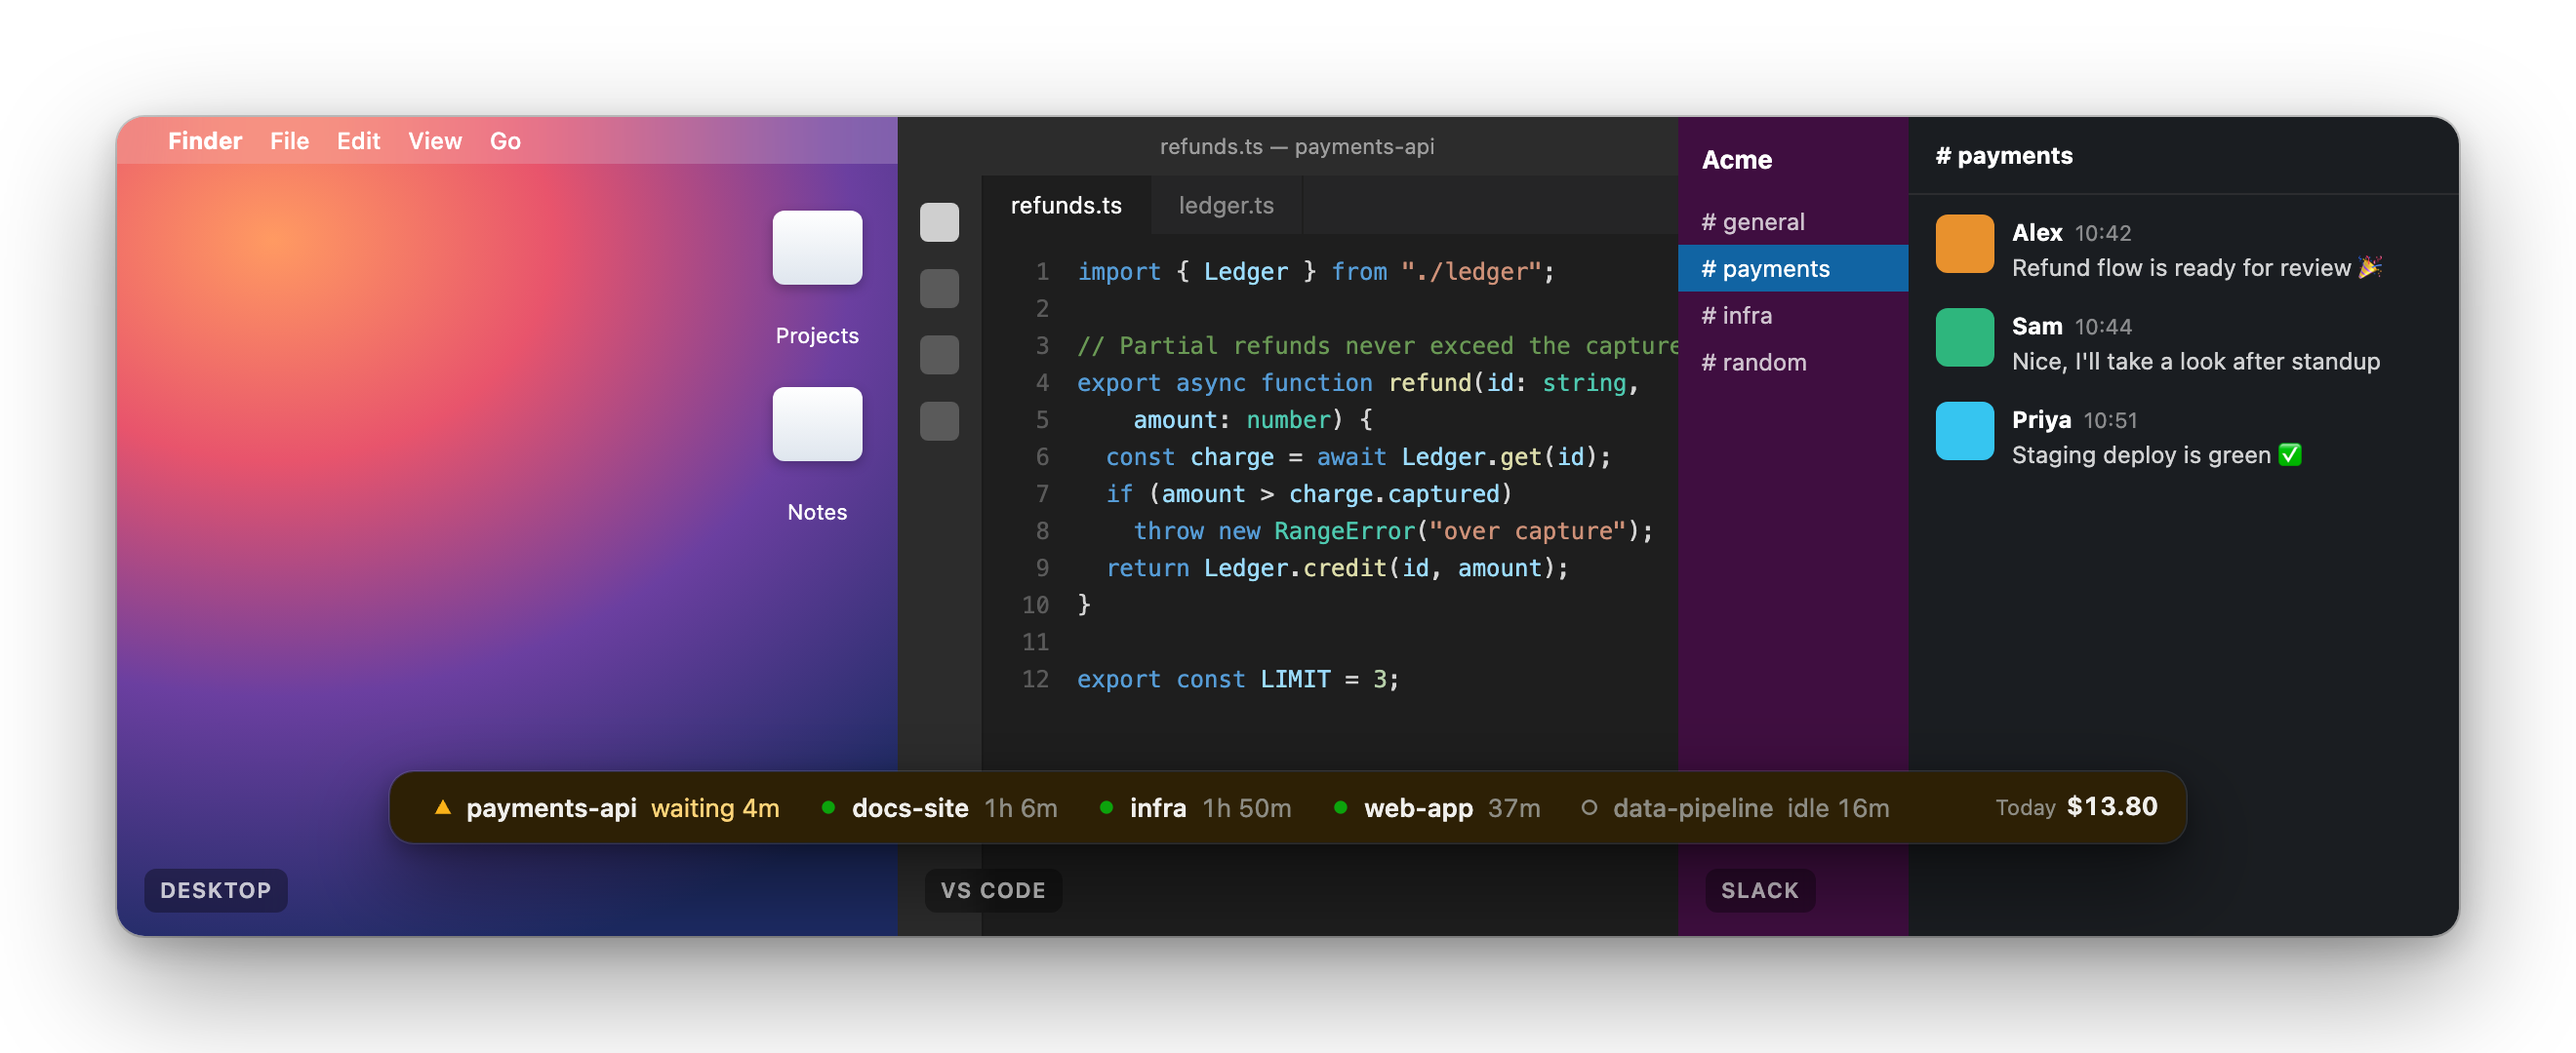
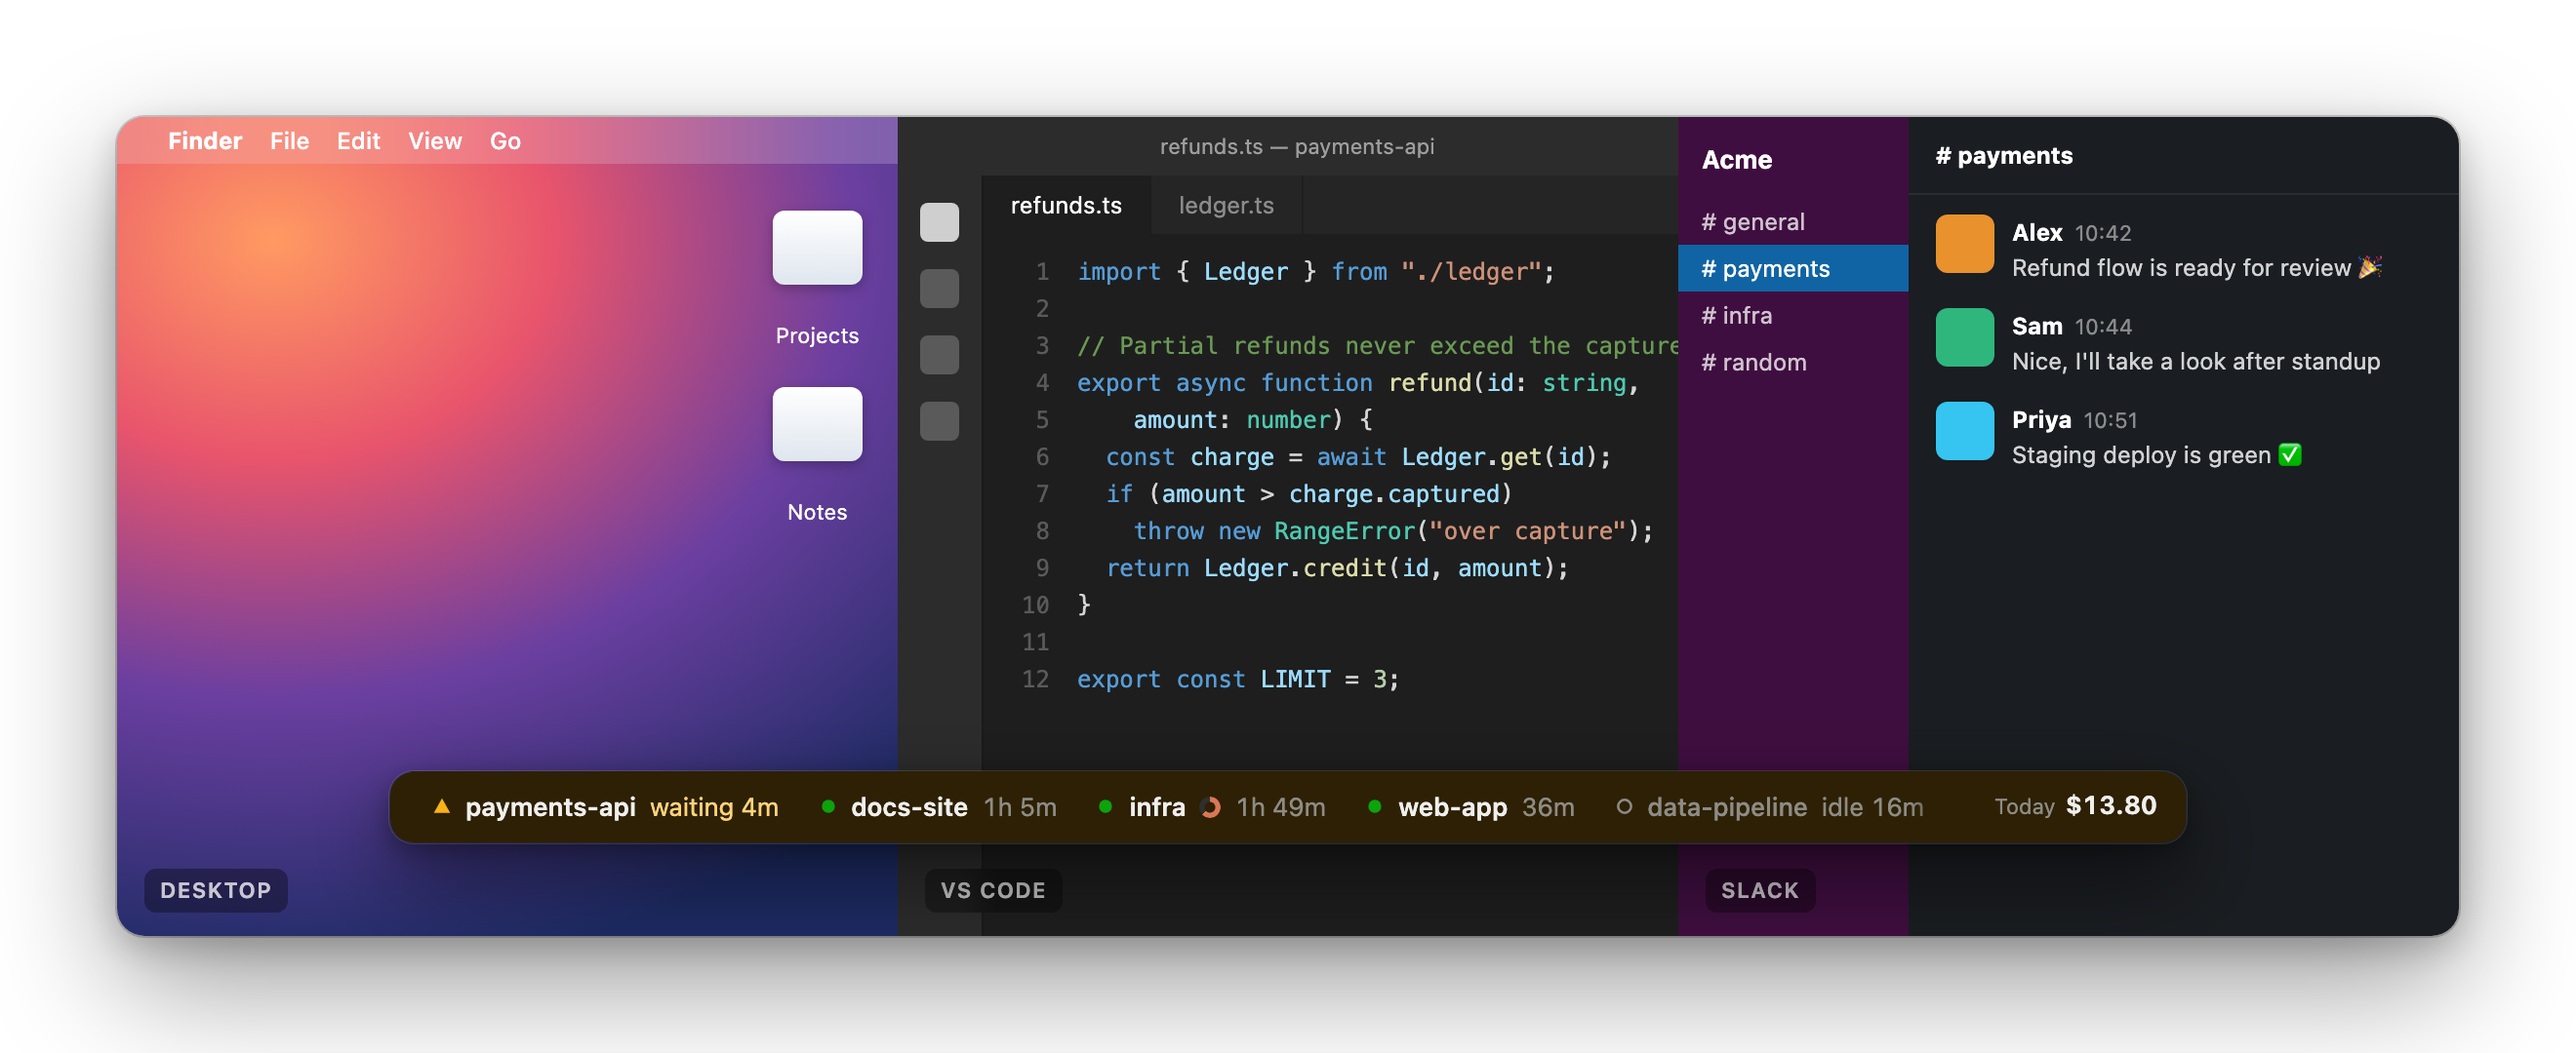
feat: show workflow progress as a ring in each session row (#13)
* feat: show workflow progress as a ring in each session row

report.sh reads the session's newest Claude Code workflow journal (next to the
transcript) and sends name, current phase and agents finished/started. The Hub
stores it per session with the same ordering rule as status; the dashboard and
widget bar draw an 11px progress ring. Plugin bumped to 0.6.0.

README screenshots re-rendered by `make images` (server/scripts/readme-images.mjs).

* fix(plugin): count workflow agents with jq, not line-prefix greps

Counting with select(.type == "started") doesn't depend on key order in the
journal. A resumed run's cached results have no "started" line, so started is
clamped to at least done. Drops the empty-string-to-null mapping the server
already does. readme-images.mjs resolves its root with fileURLToPath.

---------

diff --git a/server/src/hub.ts b/server/src/hub.ts
@@ -1,7 +1,7 @@
 import { DurableObject } from "cloudflare:workers";
 import * as authstore from "./authstore";
 import { digest, type Attempt, type ChallengePurpose, type DeviceKind, type DeviceRequest, type Devices, type FailureKey, type PasskeyRow, type Session, type SessionKind } from "./authstore";
-import type { HookEvent } from "./event";
+import type { HookEvent, Workflow } from "./event";
 import { MAX_USAGE, USAGE_COLUMNS, type UsageColumn, type UsageUpdate } from "./otlp";
 
 export type Status = "working" | "needs_you" | "idle" | "stale" | "ended";
@@ -32,7 +32,11 @@ export type SessionRow = {
   last_seen: number;
   last_event: number;
   ended_at: number | null;
+  workflow: Workflow | null;
 } & Record<UsageColumn, number>;
+
+/** As stored: workflow is JSON text. */
+export type StoredSessionRow = Omit<SessionRow, "workflow"> & { workflow: string | null };
 
 export interface Snapshot {
   sessions: SessionRow[];
@@ -63,7 +67,8 @@ const SCHEMA = `CREATE TABLE IF NOT EXISTS sessions (
   tokens_in          INTEGER NOT NULL DEFAULT 0,
   tokens_out         INTEGER NOT NULL DEFAULT 0,
   tokens_cache_read  INTEGER NOT NULL DEFAULT 0,
-  tokens_cache_write INTEGER NOT NULL DEFAULT 0
+  tokens_cache_write INTEGER NOT NULL DEFAULT 0,
+  workflow           TEXT
 )`;
 
 // Usage accrued per UTC day, so history counts spend on the day it happened, not the day a session started.
@@ -90,8 +95,8 @@ const BACKFILL_USAGE = `INSERT INTO usage_daily
 // Hooks post in the background, so events can arrive out of order:
 // only an event at least as new as last_event may change status/ended_at.
 const UPSERT_EVENT = `
-INSERT INTO sessions (id, machine, project, cwd, branch, status, started_at, last_seen, last_event, ended_at)
-VALUES (?, ?, ?, ?, ?, ?, ?, ?, ?, ?)
+INSERT INTO sessions (id, machine, project, cwd, branch, status, started_at, last_seen, last_event, ended_at, workflow)
+VALUES (?, ?, ?, ?, ?, ?, ?, ?, ?, ?, ?)
 ON CONFLICT(id) DO UPDATE SET
   machine    = COALESCE(excluded.machine, sessions.machine),
   project    = COALESCE(excluded.project, sessions.project),
@@ -100,6 +105,7 @@ ON CONFLICT(id) DO UPDATE SET
   started_at = MIN(COALESCE(sessions.started_at, excluded.started_at), excluded.started_at),
   status     = CASE WHEN excluded.last_event >= sessions.last_event THEN excluded.status   ELSE sessions.status   END,
   ended_at   = CASE WHEN excluded.last_event >= sessions.last_event THEN excluded.ended_at ELSE sessions.ended_at END,
+  workflow   = CASE WHEN excluded.last_event >= sessions.last_event THEN excluded.workflow ELSE sessions.workflow END,
   last_event = MAX(sessions.last_event, excluded.last_event),
   last_seen  = MAX(sessions.last_seen, excluded.last_seen)`;
 
@@ -115,6 +121,11 @@ export class Hub extends DurableObject<Env> {
     this.sql.exec(SCHEMA);
     this.sql.exec(authstore.AUTH_SCHEMA);
     this.sql.exec(BATCH_SCHEMA);
+    try {
+      this.sql.exec(`ALTER TABLE sessions ADD COLUMN workflow TEXT`);
+    } catch {
+      // Column already exists.
+    }
     authstore.migrateAuth(this.sql);
     // One transaction, so the table never exists without its backfill.
     if (!this.sql.exec(`SELECT 1 FROM sqlite_master WHERE name = 'usage_daily'`).toArray().length) {
@@ -236,7 +247,8 @@ export class Hub extends DurableObject<Env> {
     const project = e.cwd?.split("/").findLast(Boolean) ?? null;
     const endedAt = status === "ended" ? e.ts : null;
     // last_seen is arrival time, since the stale sweep compares it with the server clock.
-    this.sql.exec(UPSERT_EVENT, e.session_id, e.machine, project, e.cwd, e.branch, status, e.ts, Date.now(), e.ts, endedAt);
+    this.sql.exec(UPSERT_EVENT, e.session_id, e.machine, project, e.cwd, e.branch, status, e.ts, Date.now(), e.ts, endedAt,
+      e.workflow && JSON.stringify(e.workflow));
     this.broadcast();
     if (status !== "ended") await this.ensureAlarm();
   }
@@ -277,8 +289,9 @@ export class Hub extends DurableObject<Env> {
 
   snapshot(): Snapshot {
     const sessions = this.sql
-      .exec<SessionRow>(`SELECT * FROM sessions WHERE status IN ${LIVE_SQL}`)
-      .toArray();
+      .exec<StoredSessionRow>(`SELECT * FROM sessions WHERE status IN ${LIVE_SQL}`)
+      .toArray()
+      .map((r) => ({ ...r, workflow: r.workflow ? (JSON.parse(r.workflow) as Workflow) : null }));
     return { sessions };
   }
 

diff --git a/server/public/index.html b/server/public/index.html
@@ -48,6 +48,11 @@
   .row .cost { font-weight: 600; }
   .row .when { font-size: 11px; color: var(--ink-3); }
   .row .meta, #more { display: none; }
+  .row .sub:has(.wf) { display: flex; align-items: center; gap: 5px; }
+  .row .wf { flex: none; width: 11px; height: 11px; border-radius: 50%; background: conic-gradient(var(--accent) calc(var(--p) * 1%), var(--line) 0);
+    mask: radial-gradient(circle, transparent 2.5px, #000 3px); }
+  /* Bar mode hides .sub, so a second ring shows the same progress in the pill. */
+  .row > div > .wf { display: none; }
   .row.needs_you .when { color: var(--warn-ink); font-weight: 600; }
   .empty { color: var(--ink-3); padding: 18px 14px; margin: 0; }
   .foot { border-top: 1px solid var(--line); padding: 10px 14px 12px; display: grid; grid-template-columns: auto 1fr; gap: 14px; align-items: end; }
@@ -91,6 +96,7 @@
     #live .row > div:not(.right) { display: flex; align-items: baseline; gap: 7px; }
     #live .row svg.icon { width: 10px; height: 10px; }
     #live .row.idle .title { color: var(--ink-3); font-weight: 500; }
+    #live .row > div > .wf { display: block; align-self: center; }
     .row .meta { display: inline; color: var(--ink-3); font-variant-numeric: tabular-nums; }
     .row.needs_you .meta { color: var(--warn-ink); }
     #more { display: block; flex: none; color: var(--ink-3); font-weight: 600; }
@@ -99,7 +105,7 @@
     html.cession-hover .foot { opacity: 0; }
     .today { display: flex; align-items: baseline; gap: 5px; }
     .today .value { font-size: 13px; }
-    .head, .row .title span, .row .sub, .row .right, #live .empty, #live h2, .delta, svg.spark, details { display: none; }
+    .head, .row .title span, .row .sub, .row .sub:has(.wf), .row .right, #live .empty, #live h2, .delta, svg.spark, details { display: none; }
   }
   .tip { position: fixed; pointer-events: none; opacity: 0; background: #0b0b0b; color: #fff; border-radius: 6px; padding: 5px 8px; font-size: 11px; transition: opacity .1s; }
 </style>
@@ -176,10 +182,20 @@ function rowHtml(r, s) {
         ${ICON[s]}
         <div><div class="title">${esc(r.project ?? "—")}${branch}</div>
           <div class="sub">${esc(r.machine ?? "unknown machine")}${up}</div>
+          ${workflowHtml(r.workflow)}
           <span class="meta">${barMeta(r)}</span></div>
         <div class="right"><div class="cost">${usd(r.cost_usd)}</div>
           <div class="when">${when}</div></div>
       </div>`;
+}
+
+// Agents are spawned as a run goes, so the bar is finished out of started so far, not of the whole run.
+function workflowHtml(w) {
+  if (!w) return "";
+  const label = [w.name ?? "workflow", w.phase, `${w.done}/${w.started} agents`].filter(Boolean).join(" · ");
+  const pct = w.started ? Math.round((w.done / w.started) * 100) : 0;
+  const ring = `<span class="wf" role="progressbar" aria-label="${esc(label)}" aria-valuenow="${pct}" title="${esc(label)}" style="--p:${pct}"></span>`;
+  return `<div class="sub">${ring}${esc(label)}</div>${ring.replace('role="progressbar"', 'aria-hidden="true"')}`;
 }
 
 // Bar mode's one-line summary per row: how long it has waited, run so far, or sat idle. Cost stays

diff --git a/server/src/event.ts b/server/src/event.ts
@@ -1,3 +1,11 @@
+/** A running Claude Code workflow: its name, current phase, and agents finished out of those started so far. */
+export interface Workflow {
+  name: string | null;
+  phase: string | null;
+  done: number;
+  started: number;
+}
+
 export interface HookEvent {
   session_id: string;
   event: string;
@@ -5,6 +13,7 @@ export interface HookEvent {
   cwd: string | null;
   branch: string | null;
   ts: number;
+  workflow: Workflow | null;
 }
 
 const MAX_FIELD = 256;
@@ -17,6 +26,17 @@ const MAX_AGE_MS = 24 * 60 * 60_000;
 
 const str = (v: unknown) => (typeof v === "string" && v !== "" ? v : null);
 const tooLong = (v: string | null, max: number) => v !== null && v.length > max;
+const MAX_AGENTS = 100_000;
+const count = (v: unknown) => (Number.isInteger(v) && (v as number) >= 0 && (v as number) <= MAX_AGENTS ? (v as number) : null);
+
+// Anything malformed reads as no workflow rather than rejecting the event, so status still updates.
+function parseWorkflow(v: unknown): Workflow | null {
+  if (typeof v !== "object" || v === null) return null;
+  const w = v as Record<string, unknown>;
+  const name = str(w.name), phase = str(w.phase), done = count(w.done), started = count(w.started);
+  if (done === null || started === null || done > started || tooLong(name, MAX_FIELD) || tooLong(phase, MAX_FIELD)) return null;
+  return { name, phase, done, started };
+}
 
 export function parseEvent(body: unknown, now = Date.now()): HookEvent | null {
   if (typeof body !== "object" || body === null) return null;
@@ -28,6 +48,7 @@ export function parseEvent(body: unknown, now = Date.now()): HookEvent | null {
     cwd: str(b.cwd),
     branch: str(b.branch),
     ts: typeof b.ts === "number" && Number.isFinite(b.ts) ? b.ts : now,
+    workflow: parseWorkflow(b.workflow),
   };
   if (!e.session_id || !e.event) return null;
   if ([e.session_id, e.event, e.machine, e.branch].some((v) => tooLong(v, MAX_FIELD)) || tooLong(e.cwd, MAX_CWD)) return null;

diff --git a/server/test/events.test.ts b/server/test/events.test.ts
@@ -110,6 +110,23 @@ describe("POST /events", () => {
     expect(await liveSession(id)).toMatchObject({ status: "working", machine: "mini", project: "api" });
   });
 
+  it("stores workflow progress, clears it when absent, and drops a malformed one", async () => {
+    const id = uid();
+    const t = Date.now() - 60_000;
+    const workflow = { name: "review", phase: "Verify", done: 3, started: 5 };
+    await ev(id, "PostToolUse", t, { workflow });
+    expect((await liveSession(id))?.workflow).toEqual(workflow);
+    // An older event arriving late doesn't roll progress back.
+    await ev(id, "PostToolUse", t - 1, { workflow: { ...workflow, done: 1 } });
+    expect((await liveSession(id))?.workflow).toEqual(workflow);
+    await ev(id, "PostToolUse", t + 1);
+    expect((await liveSession(id))?.workflow).toBeNull();
+    for (const bad of [{ done: 6, started: 5 }, { done: -1, started: 5 }, { done: 1.5, started: 5 }, { name: "n".repeat(257), done: 0, started: 0 }]) {
+      expect((await ev(id, "PostToolUse", t + 2, { workflow: bad })).status).toBe(204);
+      expect((await liveSession(id))?.workflow).toBeNull();
+    }
+  });
+
   it("a null branch keeps the known branch; a new branch replaces it", async () => {
     const id = uid();
     const t = Date.now();

diff --git a/server/test/helpers.ts b/server/test/helpers.ts
@@ -4,7 +4,7 @@ import { env, exports } from "cloudflare:workers";
 import { expect } from "vitest";
 import worker from "../src/index";
 import type { SessionKind } from "../src/authstore";
-import type { SessionRow, Snapshot } from "../src/hub";
+import type { SessionRow, Snapshot, StoredSessionRow } from "../src/hub";
 import { SoftAuthenticator } from "./authenticator";
 
 export const BASE = "http://localhost";
@@ -41,7 +41,7 @@ export const sql = <T extends Record<string, SqlStorageValue>>(query: string, ..
   runInDurableObject(hub(), (_i, state) => state.storage.sql.exec<T>(query, ...args).toArray());
 
 /** Reads a row directly, including final (stale/ended) sessions the API hides. */
-export const row = async (id: string) => (await sql<SessionRow>("SELECT * FROM sessions WHERE id = ?", id))[0];
+export const row = async (id: string) => (await sql<StoredSessionRow>("SELECT * FROM sessions WHERE id = ?", id))[0];
 
 export async function liveSession(id: string): Promise<SessionRow | undefined> {
   const snap = await (await get("/api/sessions")).json<Snapshot>();

diff --git a/server/test/history.test.ts b/server/test/history.test.ts
@@ -17,7 +17,7 @@ const cost = (id: string, value: number, temporality = 2) => ({
 // which parseEvent (tested in events.test.ts) would otherwise reject.
 const ev = (session_id: string, event: string, ts: number, extra: Partial<{ machine: string; cwd: string; branch: string }> = {}) =>
   runInDurableObject(hub(), (inst: Hub) =>
-    inst.applyEvent({ session_id, event, ts, machine: extra.machine ?? null, cwd: extra.cwd ?? null, branch: extra.branch ?? null }));
+    inst.applyEvent({ session_id, event, ts, machine: extra.machine ?? null, cwd: extra.cwd ?? null, branch: extra.branch ?? null, workflow: null }));
 
 describe("stale sweep", () => {
   it("marks sessions silent for 30+ minutes stale, keeps fresh ones, and revives on a new event", async () => {

diff --git a/README.md b/README.md
@@ -3,10 +3,10 @@
 See every Claude Code session on all your machines in one place. For each session it shows the machine, project and branch, whether it's working, waiting on you or idle, and what it costs. It also keeps daily and per-project cost history.
 
 <p align="center">
-  <img src="docs/images/dashboard.png" width="440" alt="The cession dashboard as a macOS window: one session waiting for you, three working and one idle, each with its machine, branch, run time and cost; today's cost against a 7-day bar chart; and the daily history table.">
+  <img src="docs/images/dashboard.png" width="440" alt="The cession dashboard as a macOS window: one session waiting for you, three working and one idle, each with its machine, branch, run time and cost, one with a progress ring for a running workflow; today's cost against a 7-day bar chart; and the daily history table.">
 </p>
 <p align="center">
-  <img src="docs/images/widget.png" alt="The cession widget in bar mode floating over the desktop, VS Code and Slack: one line per session with how long it has run, waited or sat idle, and today's total cost, tinted amber while a session waits for you.">
+  <img src="docs/images/widget.png" alt="The cession widget in bar mode floating over the desktop, VS Code and Slack: one line per session with how long it has run, waited or sat idle (with a progress ring while a workflow runs), and today's total cost, tinted amber while a session waits for you.">
 </p>
 
 ```
